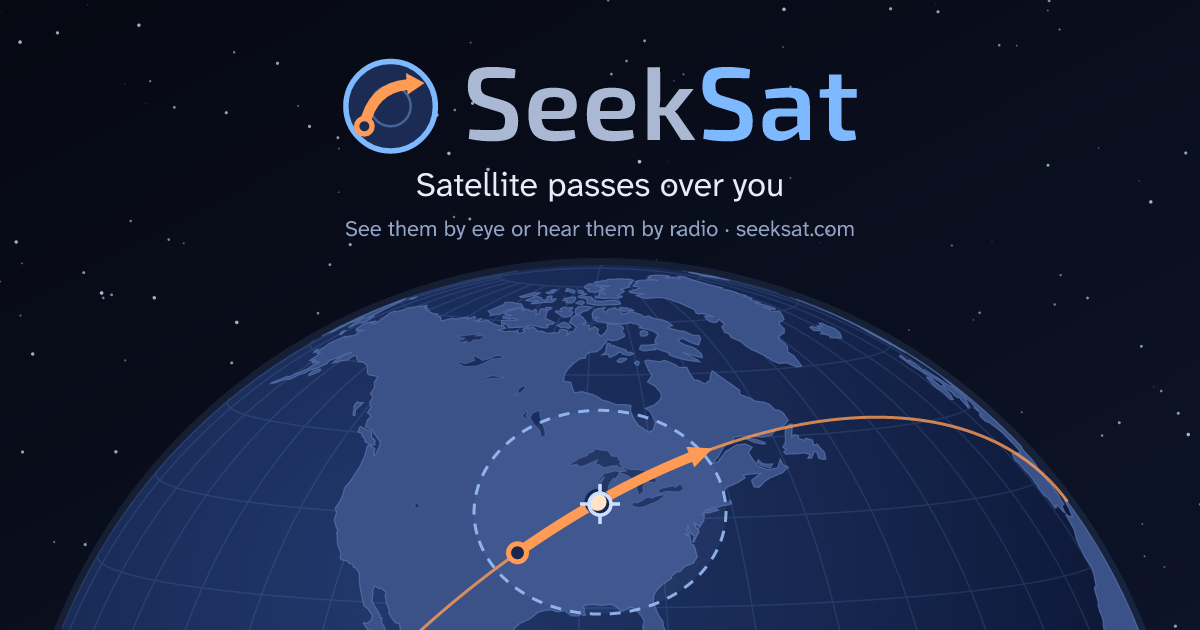
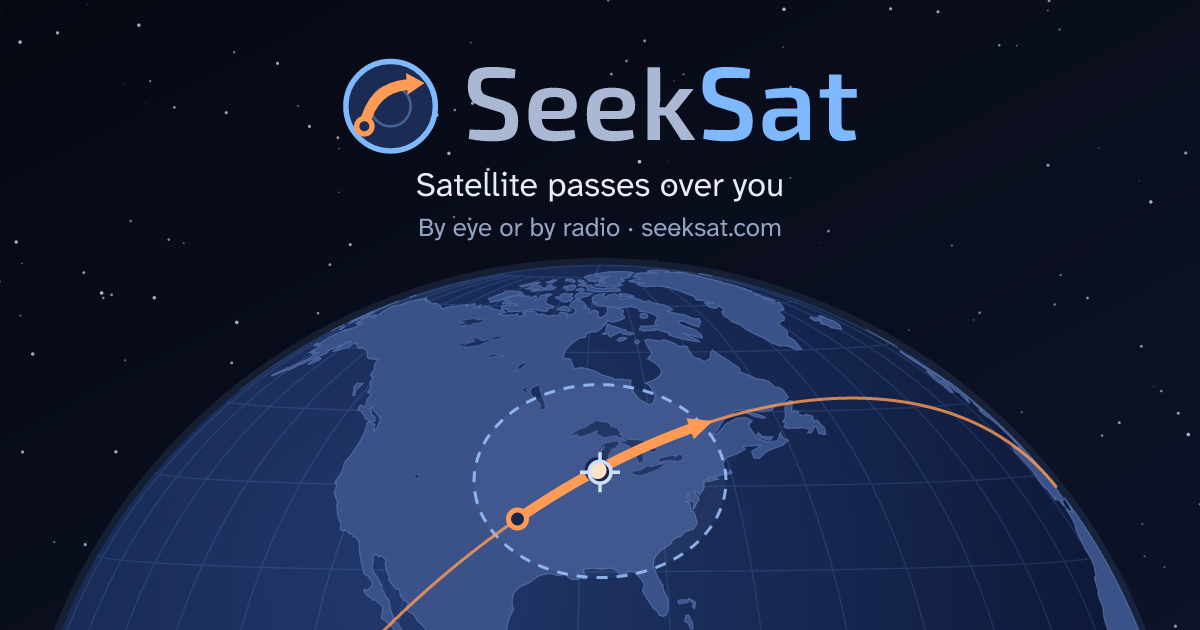
feat: Share images for the MCP page and shared map views, and the globe turned so the pass sits higher

diff --git a/middleware.ts b/middleware.ts
@@ -2,13 +2,20 @@ import { NextResponse, type NextRequest } from 'next/server';
 import { legacyRedirect, satRedirect } from './lib/share/legacy-redirect.mjs';
 
 // Old share links (/?s=..., /classic?s=...) land on the ISS page's shared view.
-// `/` without `s` passes straight through, so it stays statically cached.
+// `/` without `s` or `map` passes straight through, so it stays statically cached.
 // Satellite URLs that are not canonical are redirected here too (satRedirect).
 export function middleware(req: NextRequest) {
   const { pathname, searchParams } = req.nextUrl;
   const target = pathname.startsWith('/sat/') ? satRedirect(pathname) : legacyRedirect(pathname, searchParams);
-  if (!target) return NextResponse.next();
-  return NextResponse.redirect(new URL(target, req.url), 308);
+  if (target) return NextResponse.redirect(new URL(target, req.url), 308);
+  // A shared map view (/?map=...): the same home page, rendered so its share
+  // image shows that view. The address bar keeps the link.
+  if (pathname === '/' && searchParams.has('map')) {
+    const to = req.nextUrl.clone();
+    to.pathname = '/shared-view';
+    return NextResponse.rewrite(to);
+  }
+  return NextResponse.next();
 }
 
 export const config = { matcher: ['/', '/classic', '/classic/:path*', '/sat/:path*'] };

diff --git a/app/(map)/shared-view/page.tsx b/app/(map)/shared-view/page.tsx
@@ -1,0 +1,27 @@
+// app/(map)/shared-view/page.tsx - the home page as opened from a shared map
+// view (/?map=...): middleware.ts routes those here so this page can name a
+// share image of that view, while the plain home page stays statically built.
+// The address bar keeps the shared link; the view itself is read on the client.
+import type { Metadata } from "next";
+import HomePage from "../page";
+
+type Props = { searchParams: Promise<Record<string, string | string[] | undefined>> };
+
+export async function generateMetadata({ searchParams }: Props): Promise<Metadata> {
+  const params = new URLSearchParams();
+  for (const [k, v] of Object.entries(await searchParams)) {
+    if (typeof v === "string") params.set(k, v);
+  }
+  const image = `/api/og/view?${params.toString()}`;
+  return {
+    title: "A shared satellite map",
+    openGraph: { images: [{ url: image, width: 1200, height: 630 }] },
+    twitter: { card: "summary_large_image", images: [image] },
+    robots: { index: false, follow: true },
+    alternates: { canonical: "/" },
+  };
+}
+
+export default function SharedView() {
+  return <HomePage />;
+}

diff --git a/app/mcp/page.tsx b/app/mcp/page.tsx
@@ -13,6 +13,8 @@ export const metadata: Metadata = {
   description:
     "Query SeekSat's satellite pass & position engine from AI agents over the Model Context Protocol.",
   alternates: { canonical: "/mcp" },
+  openGraph: { images: [{ url: "/og-mcp.png", width: 1200, height: 630 }] },
+  twitter: { card: "summary_large_image", images: ["/og-mcp.png"] },
 };
 
 type Param = { name: string; type: string; required: boolean; range: string; description: string };

diff --git a/app/api/og/view/route.ts b/app/api/og/view/route.ts
@@ -1,0 +1,10 @@
+// app/api/og/view/route.ts - share image for a shared map view
+// (/?map=...&sats=...). Logic in lib/og/view-og.mjs. Node runtime (resvg-wasm).
+import { getCatalogReader } from "@/lib/mirror/server.mjs";
+import { viewOgResponse } from "@/lib/og/view-og.mjs";
+
+export const runtime = "nodejs";
+
+export function GET(req: Request): Promise<Response> {
+  return viewOgResponse(req.url, { reader: getCatalogReader(), nowMs: Date.now() });
+}
